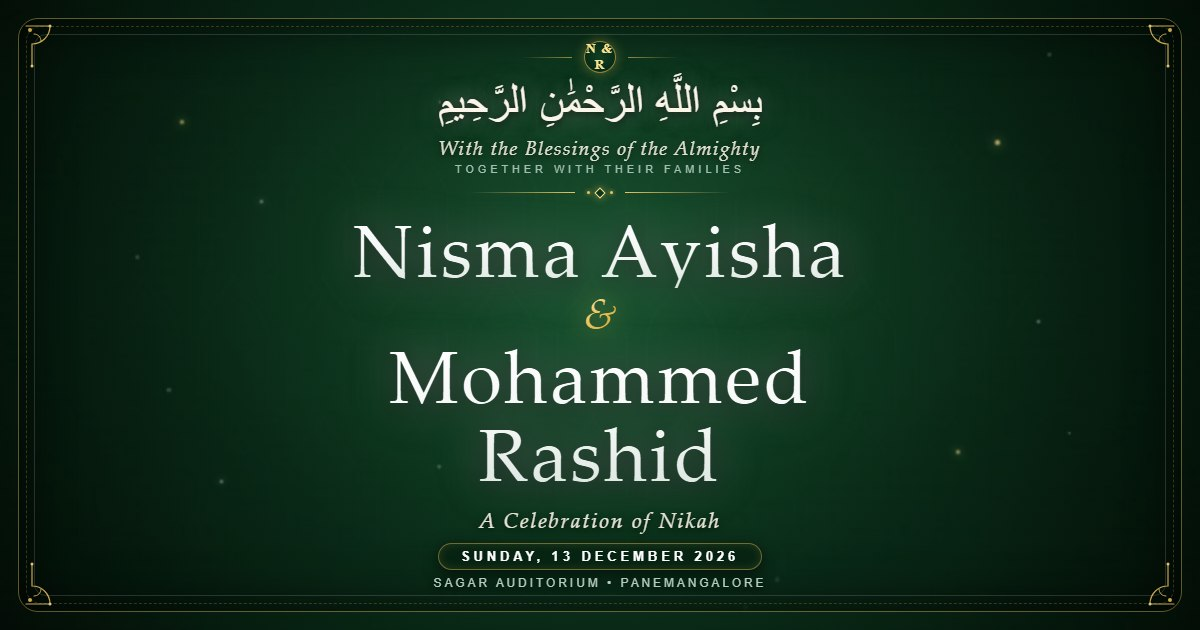
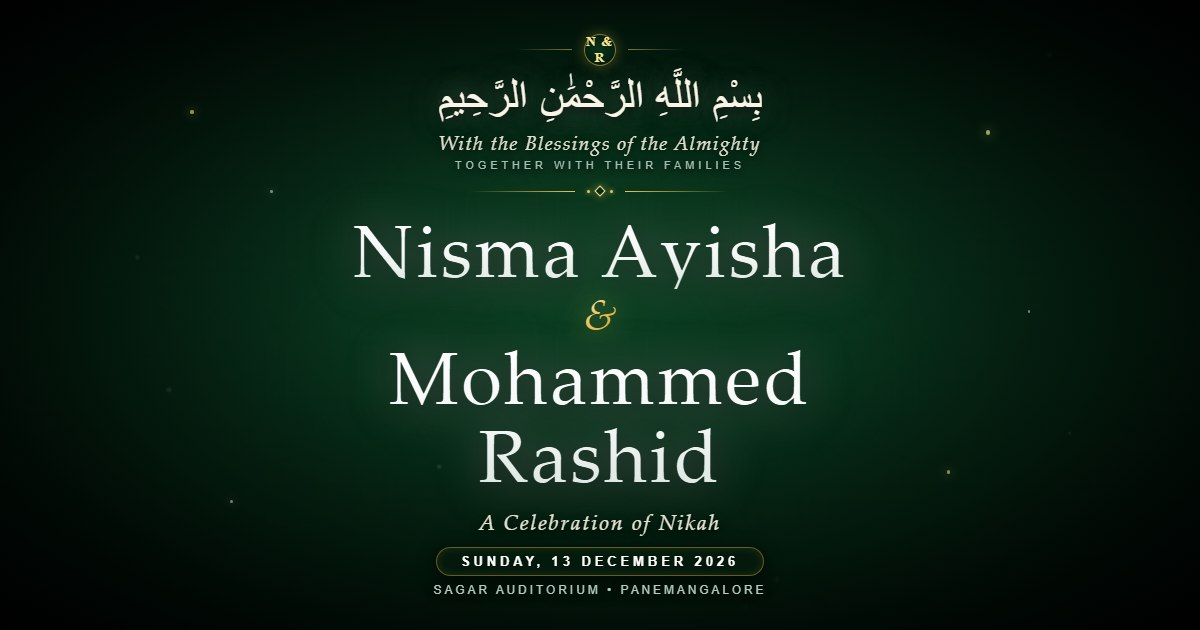
Remove borders and apply seamless dark green radial vignette effect

diff --git a/public/og-preview.html b/public/og-preview.html
@@ -2,7 +2,7 @@
 <html lang="en">
 <head>
   <meta charset="UTF-8">
-  <title>OG Preview Card - Ultra Luxury</title>
+  <title>OG Preview Card - Seamless Dark Green Vignette</title>
   <link rel="preconnect" href="https://fonts.googleapis.com">
   <link rel="preconnect" href="https://fonts.gstatic.com" crossorigin>
   <link href="https://fonts.googleapis.com/css2?family=Amiri:wght@400;700&family=Cinzel:wght@400;600;700&family=Cormorant+Garamond:ital,wght@0,300;0,400;0,500;0,600;1,400;1,500&family=Plus+Jakarta+Sans:wght@300;400;500;600;700&display=swap" rel="stylesheet">
@@ -16,7 +16,7 @@
       width: 1200px;
       height: 630px;
       overflow: hidden;
-      background-color: #020d06;
+      background-color: #010603;
       font-family: 'Plus Jakarta Sans', sans-serif;
       color: #F8FAFC;
     }
@@ -24,82 +24,48 @@
       width: 1200px;
       height: 630px;
       position: relative;
-      /* Rich, deep emerald multi-stop lighting transition */
-      background: 
-        radial-gradient(circle at 50% 48%, rgba(20, 80, 45, 0.85) 0%, rgba(9, 45, 24, 0.92) 42%, rgba(4, 24, 12, 0.98) 75%, #010a04 100%),
-        url('./bg-emerald.jpg');
-      background-size: cover;
-      background-position: center;
+      /* Deep Dark Green with seamless radial vignette transition */
+      background: radial-gradient(ellipse at 50% 48%, #07381d 0%, #042513 45%, #02150a 75%, #010804 100%);
       display: flex;
       flex-direction: column;
       align-items: center;
       justify-content: center;
-      padding: 24px;
+      padding: 30px;
       text-align: center;
     }
 
+    /* Subtle architectural arch watermark texture */
     .bg-texture {
       position: absolute;
       inset: 0;
       background-image: url('./bg-emerald.jpg');
       background-size: cover;
       background-position: center;
-      opacity: 0.35;
+      opacity: 0.28;
       mix-blend-mode: screen;
       pointer-events: none;
     }
 
-    /* Floating Golden Ambient Dust / Starlight Glow */
+    /* Dramatic Cinematic Vignette Layer */
+    .vignette-layer {
+      position: absolute;
+      inset: 0;
+      background: radial-gradient(ellipse at 50% 50%, transparent 30%, rgba(1, 10, 5, 0.45) 60%, rgba(0, 4, 2, 0.88) 85%, #000000 100%);
+      pointer-events: none;
+    }
+
+    /* Ambient Floating Starlight Particles */
     .starlight {
       position: absolute;
       border-radius: 50%;
       pointer-events: none;
-      filter: blur(1px);
     }
-    .star-1 { width: 4px; height: 4px; background: #FFE58F; top: 120px; left: 180px; opacity: 0.6; box-shadow: 0 0 10px #FFE58F; }
-    .star-2 { width: 3px; height: 3px; background: #FFF; top: 200px; left: 260px; opacity: 0.5; box-shadow: 0 0 8px #FFF; }
-    .star-3 { width: 5px; height: 5px; background: #FFE58F; top: 140px; right: 200px; opacity: 0.7; box-shadow: 0 0 12px #FFE58F; }
-    .star-4 { width: 3px; height: 3px; background: #FFF; top: 480px; left: 220px; opacity: 0.5; box-shadow: 0 0 8px #FFF; }
-    .star-5 { width: 4px; height: 4px; background: #FFE58F; top: 450px; right: 240px; opacity: 0.6; box-shadow: 0 0 10px #FFE58F; }
-    .star-6 { width: 3px; height: 3px; background: #FFF; top: 320px; right: 160px; opacity: 0.5; }
-
-    /* Concentric Multi-Tier Gold & Frost Borders */
-    .outer-frame {
-      position: absolute;
-      inset: 18px;
-      border: 1px solid rgba(236, 195, 90, 0.4);
-      border-radius: 20px;
-      pointer-events: none;
-      box-shadow: inset 0 0 50px rgba(0, 0, 0, 0.7);
-    }
-    .middle-frame {
-      position: absolute;
-      inset: 26px;
-      border: 1px dashed rgba(236, 195, 90, 0.22);
-      border-radius: 15px;
-      pointer-events: none;
-    }
-    .inner-frame {
-      position: absolute;
-      inset: 34px;
-      border: 1px solid rgba(226, 232, 240, 0.16);
-      border-radius: 12px;
-      pointer-events: none;
-    }
-
-    /* Ornate Arabesque Corner Filigree SVGs */
-    .corner-flourish {
-      position: absolute;
-      width: 48px;
-      height: 48px;
-      pointer-events: none;
-      color: #ECC35A;
-      opacity: 0.85;
-    }
-    .flourish-tl { top: 22px; left: 22px; }
-    .flourish-tr { top: 22px; right: 22px; transform: scaleX(-1); }
-    .flourish-bl { bottom: 22px; left: 22px; transform: scaleY(-1); }
-    .flourish-br { bottom: 22px; right: 22px; transform: scale(-1); }
+    .star-1 { width: 3.5px; height: 3.5px; background: #FFE58F; top: 110px; left: 190px; opacity: 0.6; box-shadow: 0 0 10px #FFE58F; }
+    .star-2 { width: 2.5px; height: 2.5px; background: #FFF; top: 190px; left: 270px; opacity: 0.45; box-shadow: 0 0 8px #FFF; }
+    .star-3 { width: 4.5px; height: 4.5px; background: #FFE58F; top: 130px; right: 210px; opacity: 0.65; box-shadow: 0 0 12px #FFE58F; }
+    .star-4 { width: 3px; height: 3px; background: #FFF; top: 500px; left: 230px; opacity: 0.45; box-shadow: 0 0 8px #FFF; }
+    .star-5 { width: 3.5px; height: 3.5px; background: #FFE58F; top: 470px; right: 250px; opacity: 0.55; box-shadow: 0 0 10px #FFE58F; }
+    .star-6 { width: 2.5px; height: 2.5px; background: #FFF; top: 310px; right: 170px; opacity: 0.45; }
 
     /* Central Content Box - Strictly 680px for perfect WhatsApp Web square-crop */
     .content-box {
@@ -118,15 +84,15 @@
       align-items: center;
       justify-content: center;
       gap: 12px;
-      margin-bottom: 6px;
+      margin-bottom: 8px;
     }
     .monogram-wing {
-      width: 50px;
+      width: 55px;
       height: 1px;
-      background: linear-gradient(90deg, transparent, rgba(236, 195, 90, 0.6));
+      background: linear-gradient(90deg, transparent, rgba(236, 195, 90, 0.55));
     }
     .monogram-wing.right {
-      background: linear-gradient(270deg, transparent, rgba(236, 195, 90, 0.6));
+      background: linear-gradient(270deg, transparent, rgba(236, 195, 90, 0.55));
     }
     .monogram-circle {
       display: flex;
@@ -135,9 +101,9 @@
       width: 32px;
       height: 32px;
       border-radius: 50%;
-      border: 1px solid rgba(236, 195, 90, 0.6);
-      background: radial-gradient(circle, #0e4023 0%, #062312 100%);
-      box-shadow: 0 0 12px rgba(236, 195, 90, 0.35);
+      border: 1px solid rgba(236, 195, 90, 0.55);
+      background: radial-gradient(circle, #09331a 0%, #03170b 100%);
+      box-shadow: 0 0 14px rgba(236, 195, 90, 0.3);
       font-family: 'Cormorant Garamond', serif;
       font-size: 13px;
       font-weight: 600;
@@ -151,10 +117,10 @@
       font-size: 44px;
       color: #FAF5E8;
       letter-spacing: 0.04em;
-      margin-bottom: 4px;
+      margin-bottom: 5px;
       text-shadow: 
-        0 0 25px rgba(250, 245, 232, 0.5),
-        0 2px 8px rgba(0, 0, 0, 0.9);
+        0 0 30px rgba(250, 245, 232, 0.5),
+        0 3px 12px rgba(0, 0, 0, 0.9);
       line-height: 1.15;
     }
 
@@ -165,8 +131,8 @@
       color: rgba(245, 240, 225, 0.92);
       font-weight: 300;
       letter-spacing: 0.06em;
-      margin-bottom: 2px;
-      text-shadow: 0 2px 6px rgba(0, 0, 0, 0.7);
+      margin-bottom: 3px;
+      text-shadow: 0 2px 8px rgba(0, 0, 0, 0.8);
     }
     .families {
       font-family: 'Plus Jakarta Sans', sans-serif;
@@ -174,17 +140,18 @@
       letter-spacing: 0.4em;
       text-transform: uppercase;
       color: #A3BFB0;
-      margin-bottom: 14px;
+      margin-bottom: 16px;
       font-weight: 500;
+      text-shadow: 0 2px 6px rgba(0, 0, 0, 0.8);
     }
 
-    /* Luxury Multi-Layer Gold Divider */
+    /* Luxury Gold Divider */
     .divider {
       display: flex;
       align-items: center;
       justify-content: center;
       width: 260px;
-      margin: 0 auto 14px;
+      margin: 0 auto 16px;
     }
     .divider-line {
       flex: 1;
@@ -211,17 +178,17 @@
       width: 8px;
       height: 8px;
       border: 1px solid #FFE58F;
-      background: #0d381f;
+      background: #092e18;
       transform: rotate(45deg);
       box-shadow: 0 0 8px rgba(236, 195, 90, 0.6);
     }
 
-    /* Stately Couple Names with Gold & Frost Luminous Transitions */
+    /* Stately Couple Names with Luminous Glow */
     .couple-names {
       display: flex;
       flex-direction: column;
       align-items: center;
-      margin-bottom: 12px;
+      margin-bottom: 14px;
     }
     .name {
       font-family: 'Cormorant Garamond', 'Palatino Linotype', 'Georgia', serif;
@@ -229,18 +196,16 @@
       font-weight: 500;
       letter-spacing: 0.035em;
       line-height: 1.05;
-      /* Pearlescent Frost Silver Gradient Fill */
       background: linear-gradient(180deg, #FFFFFF 0%, #F4F7F5 55%, #DCE6E0 100%);
       -webkit-background-clip: text;
       -webkit-text-fill-color: transparent;
-      filter: drop-shadow(0 0 20px rgba(255, 255, 255, 0.45)) drop-shadow(0 4px 12px rgba(0, 0, 0, 0.9));
+      filter: drop-shadow(0 0 22px rgba(255, 255, 255, 0.45)) drop-shadow(0 4px 14px rgba(0, 0, 0, 0.95));
     }
     .ampersand {
       font-family: 'Cormorant Garamond', 'Palatino Linotype', serif;
       font-style: italic;
       font-size: 42px;
       margin: -4px 0;
-      /* Radiant Gold Shimmer Gradient */
       background: linear-gradient(135deg, #FFF6D8 0%, #ECC35A 50%, #C99A24 100%);
       -webkit-background-clip: text;
       -webkit-text-fill-color: transparent;
@@ -259,8 +224,8 @@
       font-size: 22px;
       color: rgba(245, 240, 225, 0.95);
       letter-spacing: 0.08em;
-      margin-bottom: 8px;
-      text-shadow: 0 2px 6px rgba(0, 0, 0, 0.7);
+      margin-bottom: 10px;
+      text-shadow: 0 2px 8px rgba(0, 0, 0, 0.8);
     }
 
     /* Gold-Bordered Date Badge */
@@ -268,12 +233,12 @@
       display: inline-flex;
       align-items: center;
       justify-content: center;
-      padding: 5px 22px;
-      border: 1px solid rgba(236, 195, 90, 0.45);
+      padding: 6px 24px;
+      border: 1px solid rgba(236, 195, 90, 0.4);
       border-radius: 9999px;
-      background: rgba(6, 32, 16, 0.7);
-      box-shadow: 0 4px 15px rgba(0, 0, 0, 0.6), inset 0 0 10px rgba(236, 195, 90, 0.15);
-      margin-bottom: 7px;
+      background: rgba(4, 26, 13, 0.65);
+      box-shadow: 0 4px 18px rgba(0, 0, 0, 0.7), inset 0 0 10px rgba(236, 195, 90, 0.12);
+      margin-bottom: 8px;
     }
     .date-text {
       font-family: 'Plus Jakarta Sans', sans-serif;
@@ -291,13 +256,14 @@
       text-transform: uppercase;
       color: #B2CEBF;
       font-weight: 500;
-      text-shadow: 0 2px 6px rgba(0, 0, 0, 0.8);
+      text-shadow: 0 2px 8px rgba(0, 0, 0, 0.9);
     }
   </style>
 </head>
 <body>
   <div class="og-container">
     <div class="bg-texture"></div>
+    <div class="vignette-layer"></div>
 
     <!-- Ambient Floating Stars -->
     <div class="starlight star-1"></div>
@@ -307,42 +273,7 @@
     <div class="starlight star-5"></div>
     <div class="starlight star-6"></div>
 
-    <!-- Concentric Multi-Tier Borders -->
-    <div class="outer-frame"></div>
-    <div class="middle-frame"></div>
-    <div class="inner-frame"></div>
-
-    <!-- Ornate Arabesque Corner Filigree SVGs -->
-    <svg class="corner-flourish flourish-tl" viewBox="0 0 48 48" fill="none">
-      <path d="M4 4H28C28 14 20 22 10 22V44" stroke="#ECC35A" stroke-width="1.2" stroke-linecap="round"/>
-      <path d="M12 12C16 12 19 15 19 19" stroke="#ECC35A" stroke-width="1" stroke-linecap="round"/>
-      <circle cx="8" cy="8" r="2" fill="#ECC35A"/>
-      <circle cx="28" cy="4" r="1.5" fill="#FFE58F"/>
-      <circle cx="10" cy="44" r="1.5" fill="#FFE58F"/>
-    </svg>
-    <svg class="corner-flourish flourish-tr" viewBox="0 0 48 48" fill="none">
-      <path d="M4 4H28C28 14 20 22 10 22V44" stroke="#ECC35A" stroke-width="1.2" stroke-linecap="round"/>
-      <path d="M12 12C16 12 19 15 19 19" stroke="#ECC35A" stroke-width="1" stroke-linecap="round"/>
-      <circle cx="8" cy="8" r="2" fill="#ECC35A"/>
-      <circle cx="28" cy="4" r="1.5" fill="#FFE58F"/>
-      <circle cx="10" cy="44" r="1.5" fill="#FFE58F"/>
-    </svg>
-    <svg class="corner-flourish flourish-bl" viewBox="0 0 48 48" fill="none">
-      <path d="M4 4H28C28 14 20 22 10 22V44" stroke="#ECC35A" stroke-width="1.2" stroke-linecap="round"/>
-      <path d="M12 12C16 12 19 15 19 19" stroke="#ECC35A" stroke-width="1" stroke-linecap="round"/>
-      <circle cx="8" cy="8" r="2" fill="#ECC35A"/>
-      <circle cx="28" cy="4" r="1.5" fill="#FFE58F"/>
-      <circle cx="10" cy="44" r="1.5" fill="#FFE58F"/>
-    </svg>
-    <svg class="corner-flourish flourish-br" viewBox="0 0 48 48" fill="none">
-      <path d="M4 4H28C28 14 20 22 10 22V44" stroke="#ECC35A" stroke-width="1.2" stroke-linecap="round"/>
-      <path d="M12 12C16 12 19 15 19 19" stroke="#ECC35A" stroke-width="1" stroke-linecap="round"/>
-      <circle cx="8" cy="8" r="2" fill="#ECC35A"/>
-      <circle cx="28" cy="4" r="1.5" fill="#FFE58F"/>
-      <circle cx="10" cy="44" r="1.5" fill="#FFE58F"/>
-    </svg>
-
-    <!-- Central Square-Safe Content Box -->
+    <!-- Central Content Box (Zero borders, seamless edge blend) -->
     <div class="content-box">
       <!-- Monogram Crest -->
       <div class="monogram-badge">
